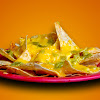
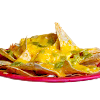
Made all menu images transparent

diff --git a/pages/product/[id].jsx b/pages/product/[id].jsx
@@ -1,10 +1,10 @@
 import styles from "../../styles/Product.module.css";
 // @ts-ignore
 import Image from "next/image";
-import { useState } from "react";
+
 
 const Product = () => {
-  const [size, setSize] = useState(0);
+  
   const tacos = {
     id: 1,
     img: "/img/beefburrito.large.jpg",
